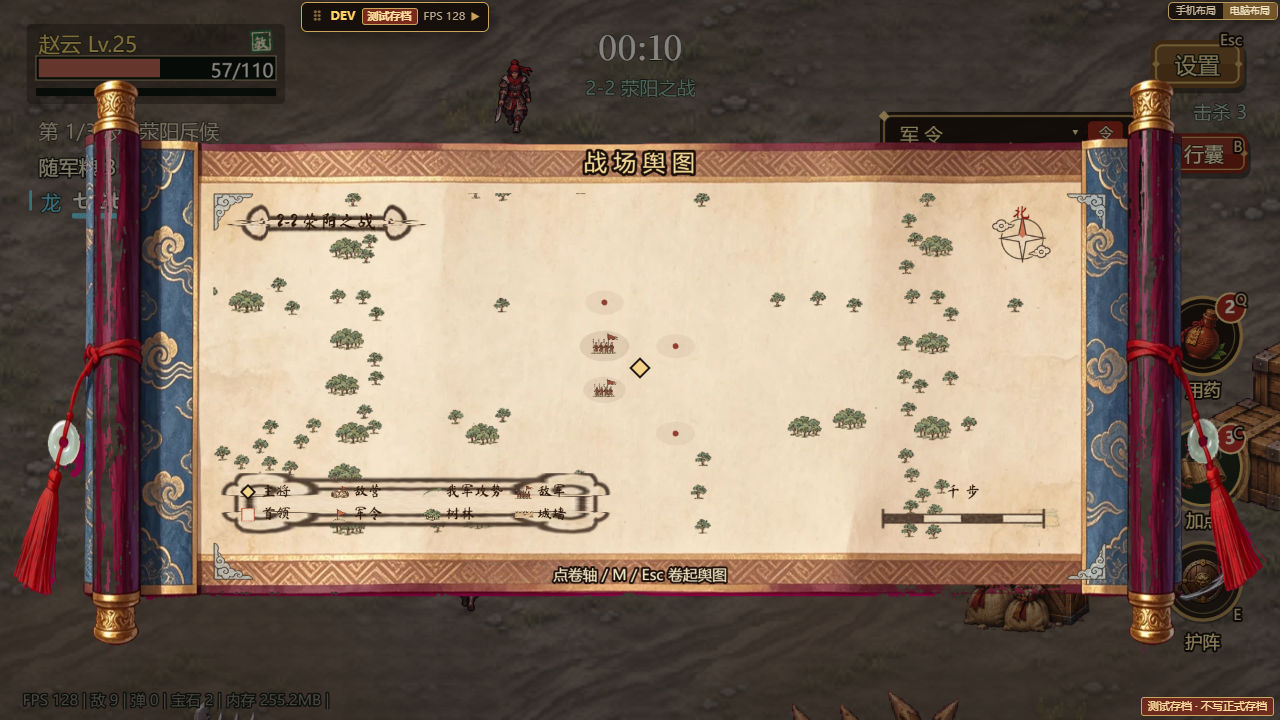
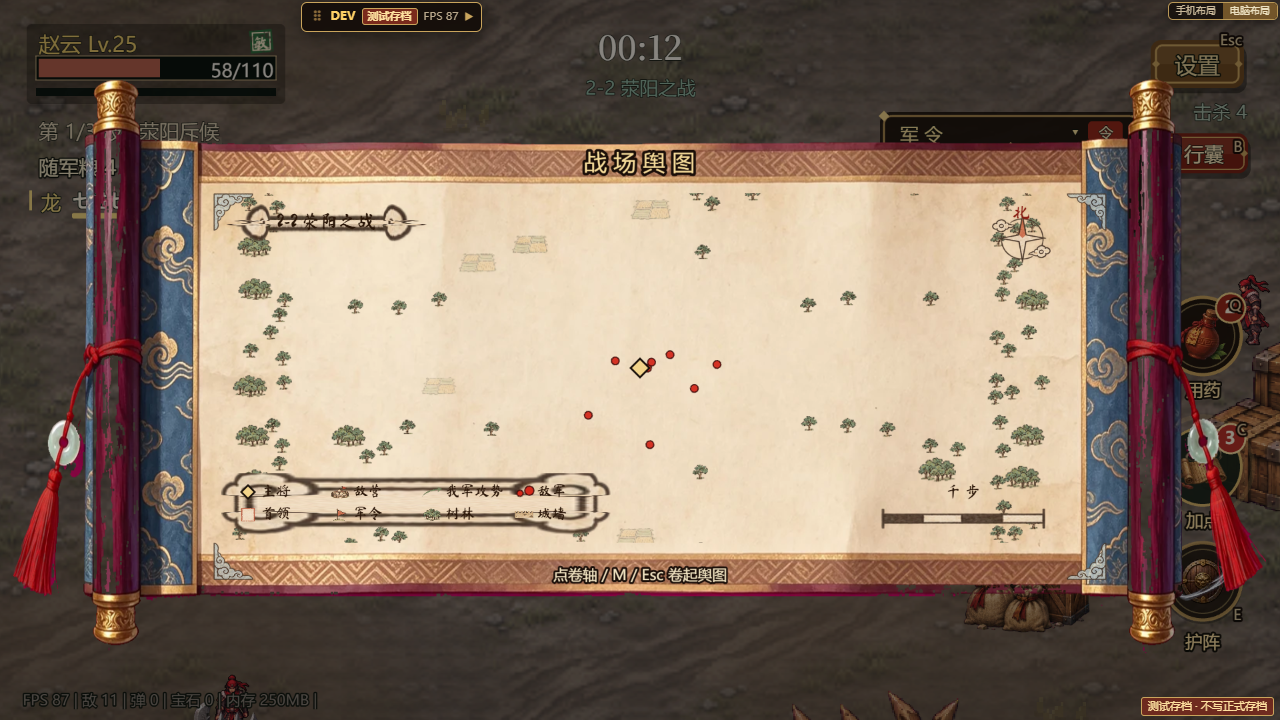
战场舆图敌军改红点（用户「敌军过来就以红点显示就好」）：每个敌兵一个小红点、精英略大、首领仍是「帅」印；最多 150 个（多了按离主将远近取），8 Hz 照旧；友军 / 主将 / 军令 / 地形不动；图例「敌军」改两枚红点

diff --git a/src/ui/PaintedMap.ts b/src/ui/PaintedMap.ts
@@ -14,6 +14,24 @@ import type { Enemy } from '../entities/Enemy';
  *    随行碧点、首领「帅」字朱印、军令令旗（当前军令一明一暗地跳）+ 楷书名字、攻城据点圆圈。
  *  - 固定装饰：左上题签（关名）、右上方位标（北）、右下比例尺（千步）、左下图例框、四角云纹。
  */
+/** 敌军红点（2026-11-19 用户「关于小地图，敌军过来就以红点显示就好」）：每个敌兵一个红点，精锐大一号、描深边；首领照旧朱印「帅」。
+ *  按离主将远近取前 max 个（画面里兵再多也不卡），随地图 8 Hz 重画。 */
+export const ENEMY_DOTS = { max: 150, color: 0xd42a1c, edge: 0x3a0806, r: 2.3, eliteR: 3.8, bigScale: 1.25 } as const;
+/** 画敌军红点：返回画了几个（测试 / 性能用）。 */
+export function drawEnemyDots(g: Phaser.GameObjects.Graphics, enemies: readonly Enemy[], map: (x: number, y: number) => [number, number], inside: (x: number, y: number) => boolean, center: { x: number; y: number }, big: boolean): number {
+  const list: Array<[number, number, number, boolean]> = [];
+  for (const e of enemies) {
+    if (!e.active || e.isSupplySlot || e.kind === 'boss' || e.hp <= 0) continue; const [px, py] = map(e.x, e.y); if (!inside(px, py)) continue;
+    list.push([px, py, (e.x - center.x) ** 2 + (e.y - center.y) ** 2, e.kind === 'elite']);
+  }
+  if (list.length > ENEMY_DOTS.max) list.sort((a, b) => a[2] - b[2]).length = ENEMY_DOTS.max;
+  const s = big ? ENEMY_DOTS.bigScale : 1, D = ENEMY_DOTS;
+  g.lineStyle(1, D.edge, .8); g.fillStyle(D.color, .95);
+  for (const [px, py, , elite] of list) if (!elite) g.fillCircle(px, py, D.r * s).strokeCircle(px, py, D.r * s);
+  g.lineStyle(1.6, D.edge, .95); g.fillStyle(D.color, 1);
+  for (const [px, py, , elite] of list) if (elite) g.fillCircle(px, py, D.eliteR * s).strokeCircle(px, py, D.eliteR * s);
+  return list.length;
+}
 export const MAP_ICONS = 'map_icons';
 export const MAP_ICONS_FILES = { png: 'assets/ui/map_icons.png', json: 'assets/ui/map_icons.json' } as const;
 type Box = { left: number; right: number; top: number; bottom: number };
@@ -37,7 +55,7 @@ export class PaintedMap {
   private readonly icons: Phaser.GameObjects.Image[] = []; private iconN = 0;
   private readonly labels: Phaser.GameObjects.Text[] = []; private labelN = 0;
   private sig = '';
-  readonly stats = { bakes: 0, icons: 0, labels: 0, stamps: 0 };
+  readonly stats = { bakes: 0, icons: 0, labels: 0, stamps: 0, dots: 0 };
   constructor(private readonly scene: Phaser.Scene, private readonly w: number, private readonly h: number, private readonly range: number, title: string) {
     const k = this.k;
     this.root = scene.add.container(0, 0).setName('painted-map');
@@ -54,10 +72,11 @@ export class PaintedMap {
     deco.add(scene.add.text(w - 16 - bar / 2, h - 30, '千 步', { fontFamily: TITLE_FONT, fontSize: '12px', color: '#2a1608', resolution: 2 }).setOrigin(.5, 1));
     // 图例：纸框，四列两行（压在画心左下，不挡中间）
     const LW = 292, LH = 46, lg = scene.add.nineslice(6, h - 6, MAP_ICONS, 'legendbox', LW, LH, 16, 16, 16, 16).setOrigin(0, 1).setAlpha(.95).setName('painted-map-legend'); deco.add(lg);
-    const items: Array<[string, string, number]> = [['主将', '', 0], ['敌营', 'camp', 20], ['我军攻势', 'brusharrow', 22], ['敌军', 'enemy', 20], ['首领', 'seal', 15], ['军令', 'flag', 15], ['树林', 'forest', 20], ['城墙', 'wall', 20]];
+    const items: Array<[string, string, number]> = [['主将', '', 0], ['敌营', 'camp', 20], ['我军攻势', 'brusharrow', 22], ['敌军', 'dot', 0], ['首领', 'seal', 15], ['军令', 'flag', 15], ['树林', 'forest', 20], ['城墙', 'wall', 20]];
     items.forEach(([label, f, sz], i) => {
       const x = 6 + 20 + (i % 4) * 69, y = h - 6 - LH + 14 + Math.floor(i / 4) * 17;
-      if (f) { const im = ic(f, x, y, sz * .7); if (im.height * im.scaleY > 12) im.setScale(12 / im.height); }
+      if (f === 'dot') { const g = scene.add.graphics(); g.lineStyle(1, ENEMY_DOTS.edge, .8).fillStyle(ENEMY_DOTS.color, 1).fillCircle(x - 3, y + 1, ENEMY_DOTS.r).strokeCircle(x - 3, y + 1, ENEMY_DOTS.r).fillCircle(x + 4, y - 1, ENEMY_DOTS.eliteR * .9).strokeCircle(x + 4, y - 1, ENEMY_DOTS.eliteR * .9); deco.add(g); } // 小点兵、大点精锐
+      else if (f) { const im = ic(f, x, y, sz * .7); if (im.height * im.scaleY > 12) im.setScale(12 / im.height); }
       else { const g = scene.add.graphics(); g.fillStyle(LQ.lacquer, 1); lqDiamond(g, x, y, 6); g.fillStyle(LQ.goldHi, 1); lqDiamond(g, x, y, 4.2); deco.add(g); }
       deco.add(scene.add.text(x + 10, y, label, { fontFamily: TITLE_FONT, fontSize: '11px', color: '#2a1608', resolution: 2 }).setOrigin(0, .5));
     });
@@ -141,18 +160,8 @@ export class PaintedMap {
     const ox = (c.x - EXT.x0) * k - W / 2, oy = (c.y - EXT.y0) * k - H / 2;
     this.rt.setPosition(-ox, -oy).setCrop(ox * RES, oy * RES, W * RES, H * RES);
     this.iconN = 0; this.labelN = 0;
-    // 敌军：12×8 分格，人多的格子画一队敌兵（越多越大），四周淡墨晕
-    const C = 12, R = 8, bins = new Uint16Array(C * R), elites: Array<[number, number]> = [];
-    for (const e of h.enemies()) {
-      if (!e.active || e.isSupplySlot || e.kind === 'boss' || e.hp <= 0) continue; const [px, py] = map(e.x, e.y); if (!inside(px, py)) continue;
-      if (e.kind === 'elite') { if (elites.length < 12) elites.push([px, py]); continue; }
-      const i = Math.min(C - 1, Math.floor(px / W * C)), j = Math.min(R - 1, Math.floor(py / H * R)); bins[j * C + i]++;
-    }
-    const cw = W / C, ch = H / R;
-    for (let j = 0; j < R; j++) for (let i = 0; i < C; i++) { const n = bins[j * C + i]; if (!n) continue; const x = (i + .5) * cw, y = (j + .5) * ch;
-      g.fillStyle(0x5a2a18, Math.min(.16, .05 + n * .015)).fillEllipse(x, y, Math.min(cw * 1.2, cw * (.5 + n * .05)), Math.min(ch * 1.2, ch * (.5 + n * .05)));
-      if (n >= 2) this.icon('enemy', x, y + 2, Math.min(34, 16 + n * 1.3), { originY: .75 }); else g.fillStyle(0x7a1a10, .8).fillCircle(x, y, 2.2); }
-    for (const [px, py] of elites) this.icon('elite', px, py, 13);
+    // 敌军：每兵一个红点（精锐大一号），见 drawEnemyDots
+    this.stats.dots = drawEnemyDots(g, h.enemies(), map, (x, y) => inside(x, y), c, true);
     // 我军攻势：碧色毛笔箭头（粗 → 细，墨迹往前流）+ 箭头尖；队伍画在兵的中心
     for (const p of h.pushes?.() ?? []) {
       const live = p.members; if (!p.to) continue;

diff --git a/src/ui/BattleMap.ts b/src/ui/BattleMap.ts
@@ -3,7 +3,7 @@ import { DEPTH, GAME_HEIGHT, GAME_WIDTH } from '../config';
 import { LQ, lqDiamond } from './LacquerKit';
 import { warText } from './WarStyle';
 import { hotkeyLabel } from '../data/hotkeys';
-import { PaintedMap, MAP_ICONS, MAP_ICONS_FILES, type PaintLayout } from './PaintedMap';
+import { PaintedMap, MAP_ICONS, MAP_ICONS_FILES, ENEMY_DOTS, drawEnemyDots, type PaintLayout } from './PaintedMap';
 import type { BattleOrders } from '../systems/BattleOrders';
 import type { Enemy } from '../entities/Enemy';
 
@@ -14,7 +14,7 @@ import type { Enemy } from '../entities/Enemy';
  *    手卷图：即梦出图（public/assets/ui/map_scroll_*.webp，原图 ui/originals/map_scroll_jimeng.webp）。
  *  - 地图：画心 640×262，以主将为中心，约 5200 宽，军令目标标名字；不暂停。
  *  - 屏外军令箭头：当前首要军令（不含首领——首领箭头 BossPresence 已有）在屏外时，屏幕边缘画朱红小箭头 + 距离。
- * 图层：墨色障碍框、青色河道、敌兵密度淡墨（12×8 分桶，不逐个画）、精锐朱点、首领朱印（对象池 2）、随行碧点、主将金菱、军令朱旗菱。
+ * 图层：墨色障碍框、青色河道、敌军红点（每兵一点、精锐大一号，最多 ENEMY_DOTS.max 个）、首领朱印（对象池 2）、随行碧点、主将金菱、军令朱旗菱。
  * 小 / 大地图 8 Hz 重画（一个 Graphics clear 重画）；障碍框每 2 秒重取一次。
  */
 export const BATTLE_MAP = {
@@ -63,7 +63,7 @@ function legend(scene: Phaser.Scene, mapH: number): Phaser.GameObjects.Container
     ['我军攻势', (g, x, y) => { g.lineStyle(2, 0x3f9a5a, .9).lineBetween(x - 8, y + 4, x + 2, y - 2); g.fillStyle(0x58c27a, 1).fillTriangle(x + 7, y - 5, x, y - 4, x + 4, y + 2); }],
     ['首领', (g, x, y) => { g.fillStyle(0xa62a1a, 1).fillRoundedRect(x - 5, y - 5, 10, 10, 2); }],
     ['敌营（血条）', (g, x, y) => { g.fillStyle(0x7a1a12, 1).fillTriangle(x, y - 7, x - 6, y + 2, x + 6, y + 2); g.fillStyle(0xd2452e, 1).fillRect(x - 7, y + 4, 14, 2.5); }],
-    ['敌军', (g, x, y) => { g.fillStyle(0x24170e, .55).fillEllipse(x, y, 16, 10); }],
+    ['敌军', (g, x, y) => { g.lineStyle(1, ENEMY_DOTS.edge, .8).fillStyle(ENEMY_DOTS.color, 1).fillCircle(x - 3, y + 1, ENEMY_DOTS.r).strokeCircle(x - 3, y + 1, ENEMY_DOTS.r).fillCircle(x + 4, y - 1, ENEMY_DOTS.eliteR * .9).strokeCircle(x + 4, y - 1, ENEMY_DOTS.eliteR * .9); }],
     ['军令', (g, x, y) => { g.fillStyle(0xf3d48a, 1); lqDiamond(g, x, y, 6); g.fillStyle(0xb3261a, 1); lqDiamond(g, x, y, 4); }],
     ['树林 · 河 · 路', (g, x, y) => { g.fillStyle(0x46703a, .7).fillCircle(x - 6, y, 2.6).fillCircle(x - 2, y - 3, 2.6); g.lineStyle(3, 0x4f8592, .6).lineBetween(x + 1, y + 4, x + 8, y + 4); g.lineStyle(3, 0xb08a58, .5).lineBetween(x + 1, y - 2, x + 8, y - 2); }],
   ];
@@ -78,6 +78,8 @@ class MapView {
   readonly root: Phaser.GameObjects.Container;
   private readonly g: Phaser.GameObjects.Graphics;
   private readonly seals: Phaser.GameObjects.Image[] = [];
+  /** 上一次画了几个敌军红点（测试用）。 */
+  dots = 0;
   private readonly names: Phaser.GameObjects.Text[] = [];
   /** bare：只画地图内容（卷轴画心当底，框与纸由 BattleMap 的卷轴画）。 */
   /** 手绘舆图（图集 map_icons 载到了就用；没载到退回简画）。 */
@@ -141,18 +143,8 @@ class MapView {
       const hx = Phaser.Math.Clamp(bx - ux * 12, 6, W - 6), hy = Phaser.Math.Clamp(by - uy * 12, 6, H - 6), r = big ? 8 : 6;
       g.fillStyle(0x3f9a5a, .95).fillTriangle(hx + ux * r, hy + uy * r, hx - uy * r * .7 - ux * r * .5, hy + ux * r * .7 - uy * r * .5, hx + uy * r * .7 - ux * r * .5, hy - ux * r * .7 - uy * r * .5);
     }
-    // 敌兵密度：分桶淡墨（精锐另画朱点）
-    const C = BATTLE_MAP.cols, R = BATTLE_MAP.rows, bins = new Uint8Array(C * R), elites: Array<[number, number]> = [];
-    for (const e of h.enemies()) {
-      if (!e.active || e.isSupplySlot || e.kind === 'boss' || e.hp <= 0) continue;
-      const [px, py] = this.map(c, e.x, e.y); if (!this.inside(px, py)) continue;
-      if (e.kind === 'elite') { if (elites.length < 24) elites.push([px, py]); continue; }
-      const i = Math.min(C - 1, Math.floor(px / W * C)), j = Math.min(R - 1, Math.floor(py / H * R)); if (bins[j * C + i] < 255) bins[j * C + i]++;
-    }
-    const cw = W / C, ch = H / R;
-    for (let j = 0; j < R; j++) for (let i = 0; i < C; i++) { const n = bins[j * C + i]; if (!n) continue;
-      g.fillStyle(0x24170e, Math.min(.62, .16 + n * .05)).fillEllipse((i + .5) * cw, (j + .5) * ch, Math.min(cw * 1.25, cw * (.55 + n * .07)), Math.min(ch * 1.25, ch * (.55 + n * .07))); }
-    g.fillStyle(0xa62a1a, .95); for (const [px, py] of elites) g.fillCircle(px, py, big ? 3 : 2);
+    // 敌军：每兵一个红点（精锐大一号），与卷轴舆图同一画法
+    this.dots = drawEnemyDots(g, h.enemies(), (x, y) => this.map(c, x, y), (x, y) => this.inside(x, y), c, big);
     // 敌营：朱红小帐 + 血条；被友军砍着时一圈闪
     for (const cp of h.camps?.() ?? []) {
       const [px, py] = this.map(c, cp.x, cp.y); if (!this.inside(px, py, 4)) continue; const s = big ? 1 : .75;
